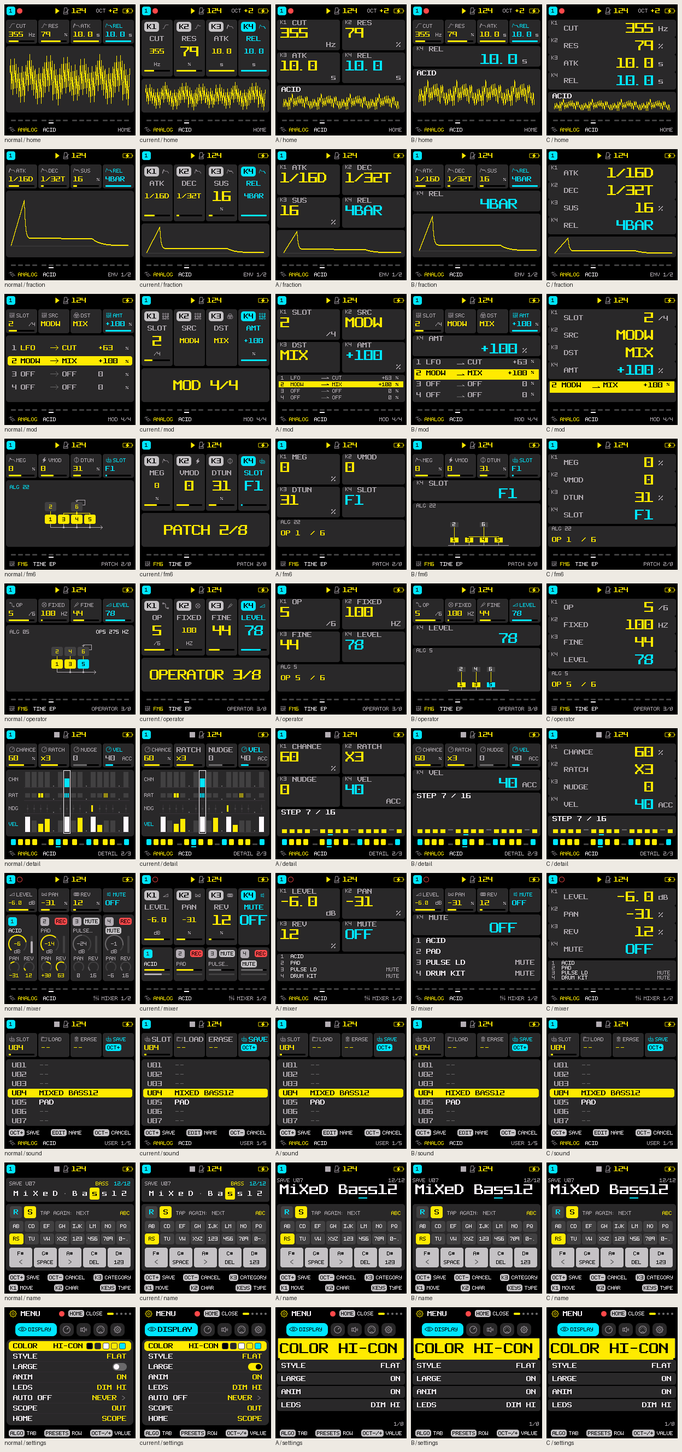
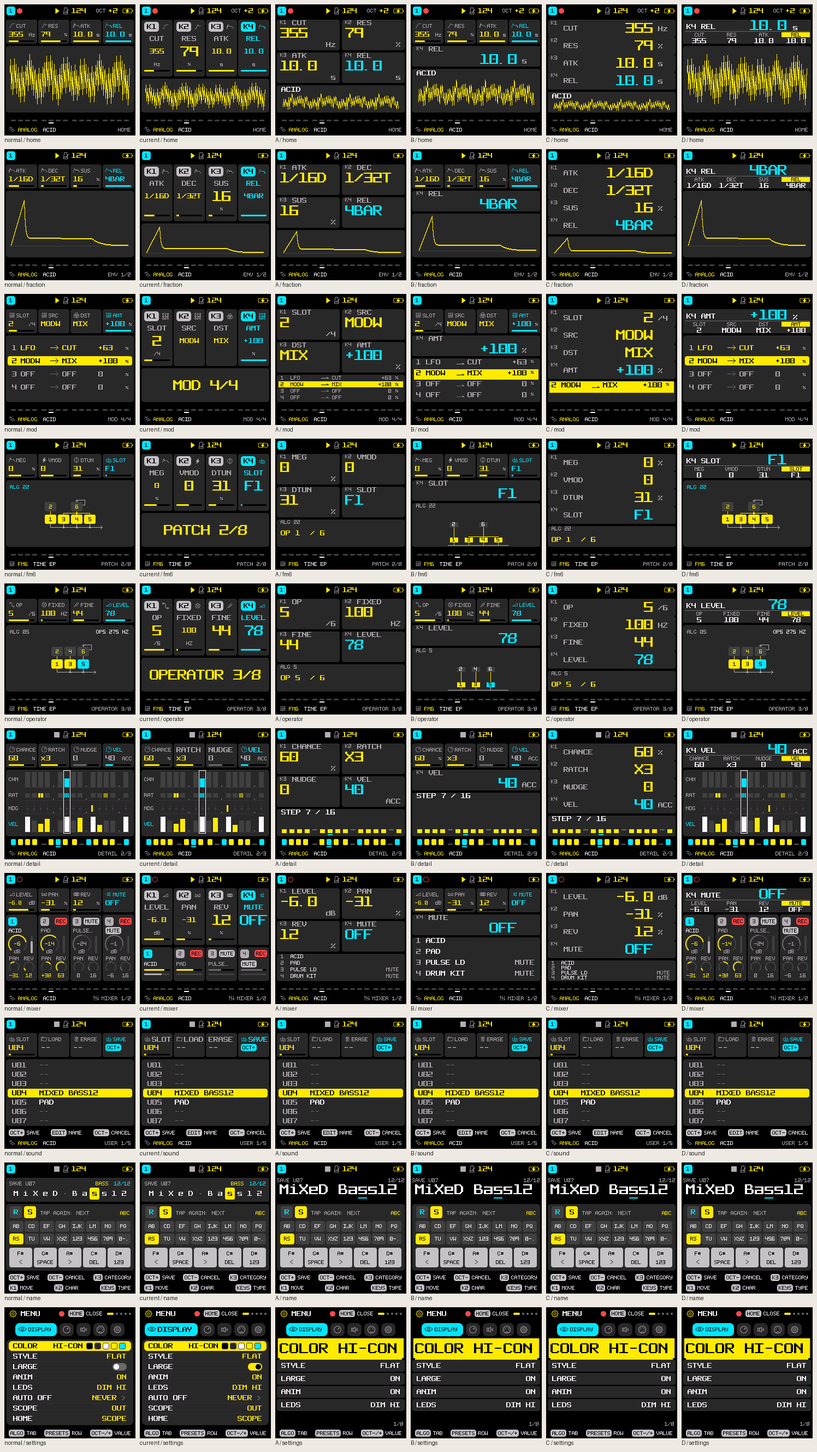
prototype(ui): add Elektron-inspired parameter bank for #572

Changed region(s): [[0.0, 0.0, 1.0, 0.9992]]

diff --git a/tests/prototypes/large_readability.html b/tests/prototypes/large_readability.html
@@ -12,7 +12,7 @@
 </style>
 <main>
 <h1>LARGE: Werte lesen, Zusammenhang behalten</h1>
-<p>Drei Entwürfe für das 240 × 240-Display. Gleiche Firmware-Zustände, vorhandene M8Stealth-Pixel und bestehende Knopfbelegung. Der Vergleich zeigt den Nutzen und den Platzverlust jeder Anordnung.</p>
+<p>Vier Entwürfe für das 240 × 240-Display. Gleiche Firmware-Zustände, vorhandene M8Stealth-Pixel und bestehende Knopfbelegung. Der Vergleich zeigt den Nutzen und den Platzverlust jeder Anordnung.</p>
 <p class="muted">Host-Prototyp zu <a href="https://github.com/kmplngj/Felucca/issues/572">#572</a> · Grundlage: <a href="https://github.com/kmplngj/Felucca/pull/574">Kontrast-Polish #574</a>. Noch keine gewählte Firmware-Änderung.</p>
 <div class="controls">
 <label>Aufgabe<select aria-label="Aufgabe" id="scene"><option value="home">HOME · Zeit-/Filterwerte</option><option value="fraction">ENV · Notenbruch / Einheit</option><option value="mod">MOD · Verbindung und Betrag</option><option value="fm6">FM6 · Algorithmuskontext</option><option value="operator">FM6 · Operator / Frequenz</option><option value="detail">STEP DETAIL · vier Werte</option><option value="mixer">MIXER · stumme Spuren</option><option value="sound">USER · vollständiger Name</option><option value="name">NAME · gemischte Schreibweise</option><option value="settings">DISPLAY · Einstellungen</option></select></label>
@@ -24,35 +24,37 @@
 <div class="toggle"><button id="zoom" aria-pressed="false">2× Pixelansicht</button><span class="scaleNote">1× = 240 CSS-Pixel. Die physische Größe und LCD-Lesbarkeit müssen am FM-1 geprüft werden.</span></div>
 <div class="comparison">
 <figure><img src="images/current-GREY-FLAT_home-k1.png" id="before" class="lcd" width="240" height="240" alt="Referenz der gewählten Firmware-Ansicht"><figcaption id="referenceTitle">LARGE heute</figcaption></figure>
-<figure><img src="images/B-GREY-FLAT_home-k1.png" id="after" class="lcd" width="240" height="240" alt="Entwurf der gewählten Firmware-Ansicht"><figcaption id="variantTitle"></figcaption></figure>
+<figure><img src="images/D-GREY-FLAT_home-k1.png" id="after" class="lcd" width="240" height="240" alt="Entwurf der gewählten Firmware-Ansicht"><figcaption id="variantTitle"></figcaption></figure>
 </div>
 <p id="description" class="tradeoff"></p>
 <p id="taskNote" class="tradeoff muted"></p>
 <div class="state" id="state" aria-live="polite"></div>
-<h2>Was die drei Entwürfe gegeneinander abwägen</h2>
+<h2>Was die vier Entwürfe gegeneinander abwägen</h2>
 <div class="tableWrap"><table><thead><tr><th>Entwurf</th><th>Gewinn</th><th>Preis / offene Frage</th></tr></thead><tbody>
 <tr><td>A · Zwei Spalten</td><td>Vier breitere Felder; Zahlen, Brüche und Vorzeichen können gleichzeitig 18 px hoch sein. K1/K2 oben, K3/K4 unten.</td><td>Die räumliche Vier-Regler-Zeile wird aufgebrochen. MOD wird klein; die FM6-Topologie passt nicht mehr.</td></tr>
 <tr><td>B · Fokus + Kontext</td><td>Vier gewohnte Reglerfelder bleiben. Ein großer aktueller Wert mit lesbarer Einheit darunter; MOD-Verbindungen und kompakte FM6-Topologie bleiben verfügbar.</td><td>Nur der Fokuswert wird groß. Die Diagramme werden kleiner; FM6-Feedback und DETAIL-Lanes sind noch unvollständig. Fokusdauer und Zustand nach dem Loslassen sind noch festzulegen.</td></tr>
 <tr><td>C · Vier Lesereihen</td><td>Vier breite, nummerierte Zeilen. Labels, Vorzeichen und Einheiten lassen sich gut zuordnen.</td><td>Weniger räumliche Entsprechung zu den vier Knöpfen; übrig bleibt nur eine Kontextzeile statt des ganzen Diagramms.</td></tr>
+<tr><td>D · Parameterbank</td><td>Großer Fokuswert und vier feste Reglerpositionen im bisherigen 44-px-Bereich. Darunter bleibt die vollständige native Arbeitsfläche samt FM6-Feedback, MOD-Verbindungen, DETAIL-Lanes und MIXER-Pegeln.</td><td>Die vier Übersichtswerte bleiben klein. Der große Lesepfad gilt für den aktiven Regler; lange Namen, Einheiten und Fokusverhalten brauchen noch eine Prüfung über alle Wertebereiche.</td></tr>
 </tbody></table></div>
 <h2>Vorschlag für die nächste Entscheidung</h2>
-<p><strong>B weiterführen.</strong> Es erhält die direkte Zuordnung und den musikalischen Zusammenhang. A oder C sind interessant, wenn vier gleichzeitig große Werte wichtiger sind als das Diagramm. Benennung und Einstellungen brauchen unabhängig davon eigene Regeln.</p>
+<p><strong>D als nächste Richtung prüfen.</strong> Es verbindet den großen Fokuswert mit der vollständigen vorhandenen Arbeitsfläche. Die feste Reglerzuordnung und die Trennung von Parameterübersicht und musikalischem Zusammenhang sind aus Elektron-Handbüchern abgeleitet; die konkrete Anordnung ist ein eigener FM-1-Entwurf. B bleibt die Alternative mit größeren Übersichtsfeldern. Benennung und Einstellungen brauchen unabhängig davon eigene Regeln.</p>
 <p class="muted">Der Entwurf erprobt Layouts. Er ist kein vollständiger Wertebereichstest, keine funktionierende Panel-Firmware und keine Messung von RAM, Laufzeit oder physischen Sichtbedingungen.</p>
-<div class="note"><p>Die Pfeile wechseln A/B/C; auch die Tastaturpfeile funktionieren außerhalb der Auswahlfelder. URL-Parameter halten Ansicht und Zustand fest. Alle Regler-/Seitenwechsel hier wählen gespeicherte Aufnahmen; sie verändern kein Gerät und keine Projekte.</p><p>M8Stealth: <a href="https://fontstruct.com/fontstructors/100463/trash80">Trash80</a>, CC BY-SA 3.0. <a href="provenance.json">Quellen, Font- und Asset-Hashes</a> · <a href="comparison-GREY.png">Alle Aufgaben in GREY</a> · <a href="comparison-PAPER.png">PAPER</a> · <a href="comparison-MONO.png">MONO</a> · <a href="comparison-HI-CON.png">HI-CON</a> · <a href="comparison-GREEN.png">GREEN</a></p></div>
+<div class="note"><p>Elektron-Referenzen: <a href="https://www.elektron.se/wp-content/uploads/2026/10/Digitone-2-User-Manual_ENG_OS1.12_260930.pdf">Digitone II OS 1.12, S. 18</a> (räumliche Reglerzuordnung, Parameterwerte) und <a href="https://www.elektron.se/wp-content/uploads/2026/10/Digitakt-2-User-Manual_ENG_OS1.17_260930.pdf">Digitakt II OS 1.17, S. 55</a> (Parameter und grafische Darstellung). D ist unsere Übertragung auf vier FM-1-Regler. Keine Elektron-Schriften, Grafiken oder Bediengesten übernommen.</p><p>Die Pfeile wechseln A/B/C/D; auch die Tastaturpfeile funktionieren außerhalb der Auswahlfelder. URL-Parameter halten Ansicht und Zustand fest. Alle Regler-/Seitenwechsel hier wählen gespeicherte Aufnahmen; sie verändern kein Gerät und keine Projekte.</p><p>M8Stealth: <a href="https://fontstruct.com/fontstructors/100463/trash80">Trash80</a>, CC BY-SA 3.0. <a href="provenance.json">Quellen, Font- und Asset-Hashes</a> · <a href="comparison-GREY.png">Alle Aufgaben in GREY</a> · <a href="comparison-PAPER.png">PAPER</a> · <a href="comparison-MONO.png">MONO</a> · <a href="comparison-HI-CON.png">HI-CON</a> · <a href="comparison-GREEN.png">GREEN</a></p></div>
 </main>
 <nav aria-label="Prototyp wechseln"><button id="prev" aria-label="Vorheriger Entwurf">←</button><span id="variantLabel"></span><button id="next" aria-label="Nächster Entwurf">→</button></nav>
 <script>
-const variants={A:{name:'Zwei Spalten',description:'Alle vier Parameter erhalten breitere Felder. Der Platz kommt aus dem Diagrammbereich; M8-Pixel bleiben unverzerrt.'},B:{name:'Fokus + Kontext',description:'Die vertraute Vier-Regler-Zeile bleibt sichtbar. Ein großer Fokuswert verbessert das Ablesen beim Drehen; darunter bleibt ein kompakter musikalischer Zusammenhang.'},C:{name:'Vier Lesereihen',description:'Eine Zeile je Regler: Label links, breiter Wert rechts. Der Lesefluss gewinnt Platz; das Diagramm wird auf einen knappen Kontext reduziert.'}};
-const notes={fraction:'Brüche und Einheiten stammen aus dem nativen ENV-Formatter. Die vorhandene ADSR-Kurve wird mit weniger Höhe neu gezeichnet.',mod:'B zeigt alle vier Beziehungen. A zeigt sie kleiner; C zeigt nur die ausgewählte Verbindung. Die ±100%-Grenzen sind im K4-Zustand enthalten.',fm6:'B zeigt einen aus den realen Algorithmusdaten abgeleiteten, vereinfachten Graphen. Feedback und Routenkreuzungen brauchen vor Übernahme die bestehenden Topologieprüfungen. A/C zeigen nur eine Zusammenfassung.',operator:'Gleiche FM6-Operatordaten und Zuordnung. Die kompakte Topologie ist ein Entwurf; sie ersetzt noch keinen geprüften Algorithmus-Renderer.',detail:'Die vier DETAIL-Werte werden größer; die vier historischen DETAIL-Lanes sind hier auf eine Schrittübersicht reduziert. Dieser Kontextverlust ist vor einer Übernahme abzuwägen.',mixer:'MUTE bleibt explizit. B hat Raum für vier lesbare Spurnamen, A/C nur für kleine Übersichten. Pegelanzeigen sind in diesen vereinfachten Kontexten nicht vollständig.',sound:'Hier bleibt der vorhandene USER-Browser als Kontrolle unverändert: der vollständige Name ist schon in der Liste lesbar. Ein großer Detailname und die übrigen Listen-/Footer-Rollen sind separat zu entscheiden.',name:'Gemeinsamer Zusatzentwurf für A/B/C: vollständiger Name aus exakt verdoppelten M-Pixeln, gemischte Schreibweise und unterstrichene Cursorposition. Tastenzuordnung und SAVE/CANCEL bleiben erhalten. Ein Host-Puffer dient nur der Darstellung; Zielimplementierung und Ressourcen sind offen.',settings:'Gemeinsamer Zusatzentwurf für A/B/C: fünf sichtbare Zeilen mit großem ausgewähltem Wert statt acht dichter Zeilen. Tab-Leiste und Knopfbelegung bleiben. Scrollfenster, alle acht Zeilen und Unterseiten sind noch auszuarbeiten.'};
+const variants={A:{name:'Zwei Spalten',description:'Alle vier Parameter erhalten breitere Felder. Der Platz kommt aus dem Diagrammbereich; M8-Pixel bleiben unverzerrt.'},B:{name:'Fokus + Kontext',description:'Die vertraute Vier-Regler-Zeile bleibt sichtbar. Ein großer Fokuswert verbessert das Ablesen beim Drehen; darunter bleibt ein kompakter musikalischer Zusammenhang.'},C:{name:'Vier Lesereihen',description:'Eine Zeile je Regler: Label links, breiter Wert rechts. Der Lesefluss gewinnt Platz; das Diagramm wird auf einen knappen Kontext reduziert.'},D:{name:'Parameterbank',description:'Elektron-inspirierte Hierarchie: vier feste Reglerpositionen und ein großer Fokuswert in einer gemeinsamen Parameterbank. Darunter bleibt der vollständige native NORMAL-Kontext mit seinen Verbindungen, Verläufen und Anzeigen erhalten.'}};
+const notes={fraction:'Brüche und Einheiten stammen aus dem nativen ENV-Formatter. Die vorhandene ADSR-Kurve wird mit weniger Höhe neu gezeichnet.',mod:'B zeigt alle vier Beziehungen. A zeigt sie kleiner; C zeigt nur die ausgewählte Verbindung. Die ±100%-Grenzen sind im K4-Zustand enthalten.',fm6:'B zeigt einen aus den realen Algorithmusdaten abgeleiteten, vereinfachten Graphen. Feedback und Routenkreuzungen brauchen vor Übernahme die bestehenden Topologieprüfungen. A/C zeigen nur eine Zusammenfassung.',operator:'Gleiche FM6-Operatordaten und Zuordnung. Die kompakte Topologie ist ein Entwurf; sie ersetzt noch keinen geprüften Algorithmus-Renderer.',detail:'Die vier DETAIL-Werte werden größer; die vier historischen DETAIL-Lanes sind hier auf eine Schrittübersicht reduziert. Dieser Kontextverlust ist vor einer Übernahme abzuwägen.',mixer:'MUTE bleibt explizit. B hat Raum für vier lesbare Spurnamen, A/C nur für kleine Übersichten. Pegelanzeigen sind in diesen vereinfachten Kontexten nicht vollständig.',sound:'Hier bleibt der vorhandene USER-Browser als Kontrolle unverändert: der vollständige Name ist schon in der Liste lesbar. Ein großer Detailname und die übrigen Listen-/Footer-Rollen sind separat zu entscheiden.',name:'Gemeinsamer Zusatzentwurf für A/B/C/D: vollständiger Name aus exakt verdoppelten M-Pixeln, gemischte Schreibweise und unterstrichene Cursorposition. Tastenzuordnung und SAVE/CANCEL bleiben erhalten. Ein Host-Puffer dient nur der Darstellung; Zielimplementierung und Ressourcen sind offen.',settings:'Gemeinsamer Zusatzentwurf für A/B/C/D: fünf sichtbare Zeilen mit großem ausgewähltem Wert statt acht dichter Zeilen. Tab-Leiste und Knopfbelegung bleiben. Scrollfenster, alle acht Zeilen und Unterseiten sind noch auszuarbeiten.'};
+const dNotes={home:'Der große Fokus und die vier Übersichtswerte teilen sich die bisherigen 44 px. Die vorhandene Oszilloskop-Arbeitsfläche darunter bleibt pixelgleich zu NORMAL.',fraction:'Notenbruch und Einheit stammen aus dem nativen Formatter. D behält die vollständige ursprüngliche ADSR-Kurve; die anderen drei Varianten verkleinern sie.',mod:'Alle vier nativen MOD-Verbindungen bleiben unverändert sichtbar. Die markierte Parameterposition und K-Nummer ordnen den großen Betrag dem physischen Regler zu.',fm6:'Die vollständige ursprüngliche FM6-Topologie samt Feedback bleibt pixelgleich zu NORMAL. D ersetzt nur die vier Parameterkarten darüber.',operator:'Der native Operator-/Algorithmuskontext bleibt vollständig erhalten. Der ausgewählte Wert wird innerhalb der gemeinsamen Parameterbank groß angezeigt.',detail:'Alle vier nativen historischen DETAIL-Lanes bleiben erhalten. Nur die darüberliegende Parameterbank erhält die neue Lesereihenfolge.',mixer:'Native Spurnamen, MUTE, Pegel- und PAN-Kontext bleiben unverändert. Die Übersicht oben bleibt kompakt; der Fokuswert wird groß.'};
 const $=id=>document.getElementById(id),params=new URLSearchParams(location.search);
-let variant=Object.hasOwn(variants,params.get('variant'))?params.get('variant'):'B';
+let variant=Object.hasOwn(variants,params.get('variant'))?params.get('variant'):'D';
 for(const name of ['GREY','GREEN','AMBER','ICE','VIOLET','ROSE','PAPER','HI-CON','NIGHT','MONO'])$('theme').add(new Option(name,name));
 for(const id of ['scene','theme','style','focus','reference']){if(params.has(id)&&[...$(id).options].some(x=>x.value===params.get(id)))$(id).value=params.get(id);$(id).addEventListener('change',render)}
 let zoom=params.get('scale')==='2';
 function render(){const scene=$('scene').value,theme=$('theme').value,style=$('style').value,focus=$('focus').value,reference=$('reference').value;
  $('before').src=`images/${reference}-${theme}-${style}_${scene}-k${focus}.png`;$('after').src=`images/${variant}-${theme}-${style}_${scene}-k${focus}.png`;
  $('referenceTitle').textContent=reference==='normal'?'NORMAL heute':'LARGE heute';$('variantTitle').textContent=`${variant} · ${variants[variant].name}`;$('variantLabel').textContent=`${variant} · ${variants[variant].name}`;
- $('description').textContent=variants[variant].description;$('taskNote').textContent=notes[scene]||'HOME zeigt unter anderem kurze und lange Zeitwerte. K4 ergänzt die 10,0-s-Grenzwerte; die Aufnahmen zeigen feste Beispielzustände.';
+ $('description').textContent=variants[variant].description;$('taskNote').textContent=(variant==='D'?dNotes[scene]:null)||notes[scene]||'HOME zeigt unter anderem kurze und lange Zeitwerte. K4 ergänzt die 10,0-s-Grenzwerte; die Aufnahmen zeigen feste Beispielzustände.';
  document.querySelector('.comparison').classList.toggle('zoom',zoom);$('zoom').setAttribute('aria-pressed',String(zoom));$('zoom').textContent=zoom?'1× Pixelansicht':'2× Pixelansicht';
  const values={variant,scene,theme,style,focus,reference,scale:zoom?'2':'1'};history.replaceState(null,'','?'+new URLSearchParams(values));$('state').textContent=`Zustand: ${variant} · ${scene} · ${theme} · ${style} · K${focus} · ${zoom?'2×':'1×'} · Host-Aufnahme 240×240`;
 }

diff --git a/tests/prototypes/large_readability.py b/tests/prototypes/large_readability.py
@@ -32,12 +32,24 @@ def main():
     with (OUT / "capture.log").open("w") as log:
         subprocess.run(command, check=True, stdout=log, stderr=subprocess.STDOUT)
         subprocess.run([str(OUT / "capture"), str(OUT)], check=True, stdout=log, stderr=subprocess.STDOUT)
-    from PIL import Image, ImageDraw
+    from PIL import Image, ImageChops, ImageDraw
     images = OUT / "images"
     images.mkdir(exist_ok=True)
     for source in (OUT / "ppm").glob("*.ppm"):
         with Image.open(source) as im:
             im.save(images / (source.stem + ".png"))
+    # D's design constraint is exact preservation outside the 44 px bank, not
+    # a newly sketched version of an algorithm/history/meter workspace.
+    unchanged = 0
+    for source in images.glob("D-*.png"):
+        scene = source.stem.split("_", 1)[1].rsplit("-k", 1)[0]
+        if scene in ("sound", "name", "settings"):
+            continue  # shared adjuncts/control, not parameter-bank proposals
+        with Image.open(source) as candidate, Image.open(images / source.name.replace("D-", "normal-", 1)) as normal:
+            for box in ((0, 0, 240, 28), (0, 72, 240, 240)):
+                if ImageChops.difference(candidate.crop(box), normal.crop(box)).getbbox():
+                    raise RuntimeError(f"D changed the native workspace: {source.name}")
+        unchanged += 1
     files = ["tests/prototypes/large_readability.c", "tests/prototypes/large_readability.py",
              "tests/prototypes/large_readability.html", "tests/ui_render.c", "tests/ui_test.c"]
     files += [str(p.relative_to(ROOT)) for p in (ROOT / "firmware/src").glob("ui*.c")]
@@ -49,16 +61,18 @@ def main():
         "compiler": subprocess.check_output([cc, "--version"], text=True).splitlines()[0],
         "command": command, "profile": "standard", "font": "M8Stealth",
         "canvas": [240, 240], "palettes": 10, "styles": ["FLAT", "LINE"],
-        "modes": ["NORMAL", "current LARGE", "A", "B", "C"], "focus_states": 4,
+        "modes": ["NORMAL", "current LARGE", "A", "B", "C", "D"], "focus_states": 4,
         "captures": len(list(images.glob("*.png"))),
+        "D_workspace": {"compared": unchanged, "outside_bank_changed_pixels": 0,
+                        "bank_xywh": [0, 28, 240, 44], "reference": "NORMAL"},
         "source_sha256": {name: hashlib.sha256((ROOT / name).read_bytes()).hexdigest() for name in files},
     }
     (OUT / "provenance.json").write_text(json.dumps(provenance, indent=2) + "\n")
     shutil.copyfile(ROOT / "tests/prototypes/large_readability.html", OUT / "index.html")
     scenes = ["home", "fraction", "mod", "fm6", "operator", "detail", "mixer", "sound", "name", "settings"]
     for palette in ["GREY", "PAPER", "MONO", "HI-CON", "GREEN"]:
-        variants = ["normal", "current", "A", "B", "C"]
-        sheet = Image.new("RGB", (1248, len(scenes) * 265 + 8), "#eeeae3")
+        variants = ["normal", "current", "A", "B", "C", "D"]
+        sheet = Image.new("RGB", (8 + len(variants) * 248, len(scenes) * 265 + 8), "#eeeae3")
         pen = ImageDraw.Draw(sheet)
         for row, scene in enumerate(scenes):
             for col, variant in enumerate(variants):
@@ -66,8 +80,23 @@ def main():
                     sheet.paste(im, (8 + col * 248, 8 + row * 265))
                 pen.text((8 + col * 248, 250 + row * 265), f"{variant} / {scene}", fill="#222")
         sheet.save(OUT / f"comparison-{palette}.png")
+    # Compact native-pixel boards for the issue, without resampling LCD pixels.
+    for filename, variants, tasks, palette in [
+        ("comparison.png", ["current", "A", "B", "C", "D"], ["home", "fraction", "mod"], "GREY"),
+        ("elektron-D.png", ["normal", "B", "D"], ["fm6", "mod", "detail", "mixer"], "AMBER"),
+        ("preview-D.png", ["normal", "D"], ["fm6"], "AMBER"),
+    ]:
+        sheet = Image.new("RGB", (8 + len(variants) * 248, len(tasks) * 265 + 8), "#eeeae3")
+        pen = ImageDraw.Draw(sheet)
+        for row, scene in enumerate(tasks):
+            for col, variant in enumerate(variants):
+                with Image.open(images / f"{variant}-{palette}-FLAT_{scene}-k4.png") as im:
+                    sheet.paste(im, (8 + col * 248, 8 + row * 265))
+                pen.text((8 + col * 248, 250 + row * 265), f"{variant} / {scene}", fill="#222")
+        sheet.save(OUT / filename)
     print(f"LARGE prototype: {provenance['captures']} native captures; open {OUT / 'index.html'}; "
-          f"{(OUT / 'report.txt').read_text(errors='replace').splitlines()[-1]}")
+          f"{(OUT / 'report.txt').read_text(errors='replace').splitlines()[-1]}; "
+          f"D workspace unchanged in {unchanged} comparisons")
 
 
 if __name__ == "__main__":

diff --git a/tests/prototypes/large_readability.c b/tests/prototypes/large_readability.c
@@ -1,6 +1,6 @@
 /* SPDX-License-Identifier: GPL-3.0-only */
 /* THROWAWAY HOST PROTOTYPE #572. No firmware changes or target resource claim.
- * Three layouts, same real fixtures/formatters/fonts. The browser only selects
+ * Four layouts, same real fixtures/formatters/fonts. The browser only selects
  * captured variant/state; it never talks to a device or changes a project. */
 #define IDENTITY_UI_RENDER 1
 #include "../ui_render.c"
@@ -186,6 +186,30 @@ static void focus_block(void)
     at(201, 23, &AF_M, p->unit, T_MID, T_SURF);
     cv_blit(3, 76);
 }
+/* D: spatial knob overview + focused value in the existing 44 px bank. This
+ * leaves the real NORMAL workspace untouched, including FM6 feedback/routes,
+ * DETAIL history and mixer meters. Elektron-inspired hierarchy, FM-1 mapping. */
+static void parameter_bank(void)
+{
+    const proto_field_t *p = &prototype_fields[focus];
+    char label[40]; snprintf(label, sizeof label, "K%u %s", focus + 1u, p->label);
+    lcd_fill(0, 28, 240, 44, T_BG);
+    cv_begin(234, 44, T_SURF);
+    at(6, 8, &AF_M, label, T_TEXT, T_SURF);
+    const aafont_t *f = value_face(p->value, 106);
+    right(190, f == &AF_L ? 1 : 9, f, p->value, T_ACCENT, T_SURF);
+    at(201, 10, &AF_M, p->unit, T_TEXT, T_SURF);
+    cv_line(3, 21, 230, 21, T_DIM);
+    for (unsigned c = 0; c < 4; c++) {
+        const proto_field_t *q = &prototype_fields[c];
+        uint16_t bg = c == focus ? T_THEME : T_SURF;
+        uint16_t ink = c == focus ? T_INK : T_MID;
+        if (c == focus) cv_rect(3 + 59 * c, 23, 52, 9, bg);
+        at(29 + 59 * c - ink_w(&AF_S, q->label) / 2, 24, &AF_S, q->label, ink, bg);
+        at(29 + 59 * c - ink_w(&AF_M, q->value) / 2, 34, &AF_M, q->value, T_TEXT, T_SURF);
+    }
+    cv_blit(3, 28);
+}
 /* Exact 2x enlargement of existing M pixels, host-only scratch. This tests a
  * mixed-case reading role without inventing another font or shipping a cache. */
 static void twice_m(int x, int y, const char *s, uint16_t fg, uint16_t bg)
@@ -241,7 +265,7 @@ int main(int argc, char **argv)
     snprintf(file, sizeof file, "%s/report.txt", out); rep = fopen(file, "w");
     for (unsigned topic = 0; topic < sizeof cases / sizeof cases[0]; topic++)
         for (unsigned p = 0; p < NPALETTES; p++) for (unsigned st = 0; st < 2; st++)
-            for (unsigned v = 0; v < 5; v++) for (unsigned state = 0; state < 4; state++) {
+            for (unsigned v = 0; v < 6; v++) for (unsigned state = 0; state < 4; state++) {
                 unsigned s = cases[topic]; focus = state;
                 large_on = v == 0; setup(s); pal(p); ui_style = st; style_apply();
                 ui.hot_col = focus; ui.hot_t = 30;
@@ -250,13 +274,14 @@ int main(int argc, char **argv)
                 if (topic == 7) { up_store(3, "MiXeD Bass12"); ui.uslot = 3; }
                 if (topic == 8) { str_cpy(nm.s, "MiXeD Bass12", sizeof nm.s); nm.len = 12; nm.cur = 8; }
                 draw(s);
-                if (v > 0 && v < 4) {
+                if ((v > 0 && v < 4) || v == 5) {
                     fields();
                     ui_prefs |= PREF_LARGE;
                     if (topic == 8) name_proposal();
                     else if (topic == 9) settings_proposal();
                     else if (topic != 7) {
-                        if (v != 2) {
+                        if (v == 5) parameter_bank();
+                        else if (v != 2) {
                             lcd_fill(0, 28, 240, 170, T_BG);
                             for (unsigned c = 0; c < 4; c++) value_block(c, v);
                             context(topic, v == 1 ? 148 : 160, v == 1 ? 50 : 38);
@@ -266,13 +291,13 @@ int main(int argc, char **argv)
                         }
                     }
                 }
-                snprintf(tag, sizeof tag, "%s-%s-%s", v == 0 ? "current" : v == 4 ? "normal" : v == 1 ? "A" : v == 2 ? "B" : "C", UI_PALETTES[p].name, st ? "LINE" : "FLAT");
+                snprintf(tag, sizeof tag, "%s-%s-%s", v == 0 ? "current" : v == 4 ? "normal" : v == 1 ? "A" : v == 2 ? "B" : v == 3 ? "C" : "D", UI_PALETTES[p].name, st ? "LINE" : "FLAT");
                 snprintf(name, sizeof name, "%s-k%u", topics[topic], state + 1);
                 cur_name = name;
                 lint(); mono_check();
                 write_ppm(out, tag, name);
             }
-    fprintf(rep, "native captures=%u lint=%u alignment=%u\n", 10u * NPALETTES * 2u * 5u * 4u, nfind, al_fail);
+    fprintf(rep, "native captures=%u lint=%u alignment=%u\n", 10u * NPALETTES * 2u * 6u * 4u, nfind, al_fail);
     fclose(rep); fclose(scene_manifest);
     return nfind || al_fail ? 1 : 0; /* Existing pixel bounds remain the floor. */
 }

diff --git a/docs/prototypes/572-large/README.md b/docs/prototypes/572-large/README.md
@@ -1,23 +1,29 @@
 <!-- SPDX-License-Identifier: GPL-3.0-only -->
 # LARGE readability directions — throwaway prototype #572
 
-Three native layout directions for [#572](https://github.com/kmplngj/Felucca/issues/572),
+Four native layout directions for [#572](https://github.com/kmplngj/Felucca/issues/572),
 based on the readable-state/SEL patch in [draft PR #574](https://github.com/kmplngj/Felucca/pull/574).
 **No layout has been selected or adopted into firmware.**
 
-![Current LARGE, two-column, focus and row layouts](comparison.png)
+![Current LARGE and four native layout alternatives](comparison.png)
 
 ## Question and recommendation
 
 Can a player read values still only 9 px high in LARGE, without losing the four
 knobs' relationship or the musical context needed to edit them?
 
-**Continue direction B, Focus + Context, first on a bounded set of value pages.**
-It keeps the existing four-column controller strip and adds an 18 px readout
-with 9 px units. MOD keeps all four relationships instead of a page title. A/C
-show the price of making all four values large at once: smaller diagrams and a
-weaker physical mapping. B's simplified FM6/DETAIL/MIXER contexts are not ready
-for adoption: feedback/routes, historical lanes and meters still need work.
+**Compare D, Parameter Bank, as the next direction.** It keeps the four knobs in
+their physical left-to-right order and fits one 18 px focus readout, a 9 px label
+and unit, plus a compact four-value overview inside the original 44 px controller
+area. The complete NORMAL workspace below it is preserved, including FM6 feedback
+and routes, MOD connections, DETAIL history and MIXER meters. The price is smaller
+overview labels (7 px) and values (9 px), without repeated units or gauges there.
+The full label/value/unit path is available only for the focused knob.
+
+B remains useful when the four larger overview cards matter more than workspace
+height. A/C show the cost of four simultaneously large values: smaller diagrams
+and weaker physical mapping. Their contexts, and B's simplified FM6/DETAIL/MIXER
+contexts, remain sketches rather than adoption-ready renderers.
 
 The owner must choose a direction before a broad LARGE migration. Recommended
 first implementation scope after that choice: HOME/ENV/LFO value readout and MOD
@@ -35,12 +41,12 @@ uv run --locked --group build python tests/prototypes/large_readability.py
 python3 -m http.server 8768 --bind 127.0.0.1 --directory build/large-prototype
 ```
 
-Open <http://127.0.0.1:8768/?variant=B&scene=home&theme=GREY&style=FLAT&focus=1>.
+Open <http://127.0.0.1:8768/?variant=D&scene=fm6&theme=AMBER&style=FLAT&focus=4&reference=normal&scale=1>.
 The generator needs a host C compiler and the locked image/font dependencies,
 but no target toolchain, SDK, Emscripten or FM-1. It only generates assets and
 host captures; it cannot flash or change device data.
 
-Use A/B/C or the floating arrows, the scene/theme/style/focus selectors and the
+Use A/B/C/D or the floating arrows, the scene/theme/style/focus selectors and the
 NORMAL/current-LARGE reference. Keyboard arrows work outside input controls.
 The URL preserves the visible selection. Native 1× is 240 CSS pixels; 2× uses
 nearest integer pixels for inspection, not a physical LCD size simulation.
@@ -48,27 +54,49 @@ nearest integer pixels for inspection, not a physical LCD size simulation.
 The gallery shows **captured states**, not a functioning instrument. Switching
 focus selects another real fixture/render. No host or device state is persisted.
 
+## Elektron reference and our adaptation (2026-10-23)
+
+The current official [Digitone II OS 1.12 manual, p. 18, §§6–6.2](https://www.elektron.se/wp-content/uploads/2026/10/Digitone-2-User-Manual_ENG_OS1.12_260930.pdf)
+places screen parameters in positions corresponding to physical encoders and
+provides a way to reveal all page values. The [Digitakt II OS 1.17 manual,
+p. 55, §11.4](https://www.elektron.se/wp-content/uploads/2026/10/Digitakt-2-User-Manual_ENG_OS1.17_260930.pdf)
+describes a second SRC page showing the same parameters with a graphical
+representation and waveform.
+
+Our inference is to preserve spatial mapping, group parameters into one bank,
+and give the musical workspace a stable place. D is an FM-1 adaptation of those
+principles, not an Elektron layout or a claim about what Elektron would ship.
+The focus readout inside 44 px is our proposal. No eight-encoder grid, push-encoder
+gesture, Elektron font, screenshot, code or artwork is copied. FM-1 button families
+and four-knob semantics stay unchanged.
+
+![NORMAL, B and D: full native FM6, MOD, DETAIL and MIXER context](elektron-D.png)
+
 ## Directions and task/role matrix
 
-| Reading task | Current LARGE | A: two columns | B: focus + context | C: four rows |
-| --- | --- | --- | --- | --- |
-| HOME short/long numeric value | CUT/ATK/REL often M (9 px); RES L | Four wider L values, 18 px | One full-width L value, 18 px; all four normal cards remain | Four right-aligned L values |
-| Fractions, signs, units | Long fractions stay M; units S (7 px) | `1/16D`, `1/32T`, `4BAR` fit L; separate M units | Large focused fraction/value and M unit | Large value with M unit beside it |
-| MOD connection and ±100% | Large cards plus page title, no relationship list | Four smaller S relationship rows | Four M relationship rows plus large focus | Selected relationship only; other slots hidden |
-| FM6 algorithm/operator | Topology replaced by title on these tall-card pages | Algorithm/operator summary only | Six operators and carrier routes derived from actual algorithm data; small S numerals | Algorithm/operator summary only |
-| STEP DETAIL | Normal-sized values and four historical lanes | Large values; history replaced by a step strip | Large focused value; step strip replaces the four lanes | Large values; only step context remains |
-| Muted track and MIXER | MUTE explicit; compact names remain S | Four small names/MUTE; meters omitted | Four M names and explicit MUTE; meters/PAN context incomplete | Four small names/MUTE; meters omitted |
-| Full sound name in USER | Complete selected 12-char name already fits the M list | Unchanged control | Unchanged control | Unchanged control |
-| NAME, mixed case and cursor | M letters in separate cells | Common adjunct: exact 2× M pixels, 18 px, contiguous 12-char name + underline; existing key map/footer retained | Same adjunct | Same adjunct |
-| DISPLAY setting | Eight dense M rows; LARGE does not grow the selected value | Common adjunct: five rows, selected name/value 2× M; native tabs and value controls retained | Same adjunct | Same adjunct |
+| Reading task | Current LARGE | A: two columns | B: focus + context | C: four rows | D: parameter bank |
+| --- | --- | --- | --- | --- | --- |
+| HOME short/long numeric value | CUT/ATK/REL often M (9 px); RES L | Four wider L values, 18 px | One full-width L value, 18 px; all four normal cards remain | Four right-aligned L values | One L focus value; four M overview values, original workspace |
+| Fractions, signs, units | Long fractions stay M; units S (7 px) | `1/16D`, `1/32T`, `4BAR` fit L; separate M units | Large focused fraction/value and M unit | Large value with M unit beside it | Focused L fraction/value + M unit; small overview omits units |
+| MOD connection and ±100% | Large cards plus page title, no relationship list | Four smaller S relationship rows | Four M relationship rows plus large focus | Selected relationship only; other slots hidden | Original four native connections, unchanged |
+| FM6 algorithm/operator | Topology replaced by title on these tall-card pages | Algorithm/operator summary only | Six operators and carrier routes derived from actual algorithm data; small S numerals | Algorithm/operator summary only | Original complete topology and feedback, unchanged |
+| STEP DETAIL | Normal-sized values and four historical lanes | Large values; history replaced by a step strip | Large focused value; step strip replaces the four lanes | Large values; only step context remains | Original four historical lanes, unchanged |
+| Muted track and MIXER | MUTE explicit; compact names remain S | Four small names/MUTE; meters omitted | Four M names and explicit MUTE; meters/PAN context incomplete | Four small names/MUTE; meters omitted | Original names/MUTE/meters/PAN context, unchanged |
+| Full sound name in USER | Complete selected 12-char name already fits the M list | Unchanged control | Unchanged control | Unchanged control | Unchanged control |
+| NAME, mixed case and cursor | M letters in separate cells | Common adjunct: exact 2× M pixels, 18 px, contiguous 12-char name + underline; existing key map/footer retained | Same adjunct | Same adjunct | Same adjunct |
+| DISPLAY setting | Eight dense M rows; LARGE does not grow the selected value | Common adjunct: five rows, selected name/value 2× M; native tabs and value controls retained | Same adjunct | Same adjunct | Same adjunct |
 
 Intentional surviving small text:
 
-- Controller-strip labels/values in B provide the four-knob overview. The focus
-  readout provides the larger complete value and unit without changing pages.
+- Controller-strip labels/values in B and D provide the four-knob overview. The focus
+  readout provides the larger complete value and unit without changing pages. D
+  intentionally reduces the overview to preserve the whole native workspace;
+  reading all four units simultaneously still favors NORMAL or B.
 - Compact graph operator numerals, step marks and nonselected track metadata
   remain S/M to preserve relationships. A/C's summary is an information loss,
-  not an equivalent diagram. FM6 feedback and complex routing are not qualified.
+  not an equivalent diagram. A/B/C's compact FM6 feedback and complex routing
+  are not qualified. D retains the native renderer; its preservation check covers
+  the captured algorithms, not a fresh sweep of every algorithm.
 - USER names remain M because all twelve characters are already visible. A
   larger selected-name/metadata role is a separate choice; this control avoids
   manufacturing an improvement where the incumbent already fits the task.
@@ -82,7 +110,7 @@ Intentional surviving small text:
 - Keep button families, four parameter mappings, PRESETS/ALGORITHM/SELECT and
   stored IDs unchanged. The browser switcher is outside the instrument and is
   not a proposed firmware navigation mode.
-- For B, use the existing last-turned column for focus. Proposed release policy:
+- For B/D, use the existing last-turned column for focus. Proposed release policy:
   retain that readout in place and let the existing active-color feedback expire;
   do not animate the diagram or move layout when the knob is released.
 - The captured states cover K1–K4 and selected boundary cases, not the complete
@@ -103,8 +131,8 @@ Intentional surviving small text:
   Engines: `9630426f5c4a34a209ca851356fbe8ba3c4c6d19`.
 - Standard generated profile and M8Stealth. Host Apple Clang 21.0.0, `-O1`,
   actual `tests/ui_render.c` / `ui_test.c` stubs and firmware drawing functions.
-- Ten scenes × ten built-in palettes × FLAT/LINE × NORMAL/current LARGE/A/B/C
-  × four focus states = **4000 captures**, 240×240 RGB565-to-RGB888 pixels.
+- Ten scenes × ten built-in palettes × FLAT/LINE × NORMAL/current LARGE/A/B/C/D
+  × four focus states = **4800 captures**, 240×240 RGB565-to-RGB888 pixels.
 - Native lint: **0 findings**. Existing alignment hooks: **0 failures**;
   prototype placements are mostly explicit coordinates, so this is not an
   assertion that every new placement has a declared alignment oracle. No lint
@@ -117,9 +145,13 @@ Intentional surviving small text:
   duplication from that scan. No second detector run or firmware acceptance is
   implied by these gallery checks.
 - Strings are taken from the real NORMAL draw-path output, not a second parameter
-  formatter. Existing ADSR geometry is redrawn with the reduced graph height.
-  Compact MOD/FM6/track/step contexts are host-only layout sketches using actual
-  fixture data; they do not replace the proven firmware graph implementation.
+  formatter. A/B/C redraw existing ADSR geometry with the reduced graph height.
+  D changes only y=28…71 on seven value-page scenes; **560 comparisons** across
+  ten palettes, two styles and four focus states confirm **zero changed pixels**
+  outside that bank versus NORMAL. USER is an unchanged control; NAME/menu use
+  the common adjuncts and are excluded from that claim. A/B/C's compact
+  MOD/FM6/track/step contexts are host-only layout sketches using actual fixture
+  data; they do not replace the proven firmware graph implementation.
 - NAME/menu 2× M output uses a host-only scratch buffer to reproduce the exact
   existing glyph pixels. No extra font, framebuffer/cache, stable ID or firmware
   state has been introduced. Its eventual target rendering/resource cost is
@@ -129,7 +161,7 @@ Intentional surviving small text:
   metadata stay under ignored `build/large-prototype/`; the committed PNGs here
   are intentional review artifacts on this throwaway branch.
 - [GREY](GREY.png), [PAPER](PAPER.png), [MONO](MONO.png),
-  [HI-CON](HI-CON.png), [GREEN](GREEN.png): all ten tasks, NORMAL/current/A/B/C.
+  [HI-CON](HI-CON.png), [GREEN](GREEN.png): all ten tasks, NORMAL/current/A/B/C/D.
 - Existing fonts/icons retain their repository notices. M8Stealth by Trash80,
   with embedded ancestry credits: CC BY-SA 3.0; see
   [font provenance](../../../assets/fonts/m8stealth/README.md) and
